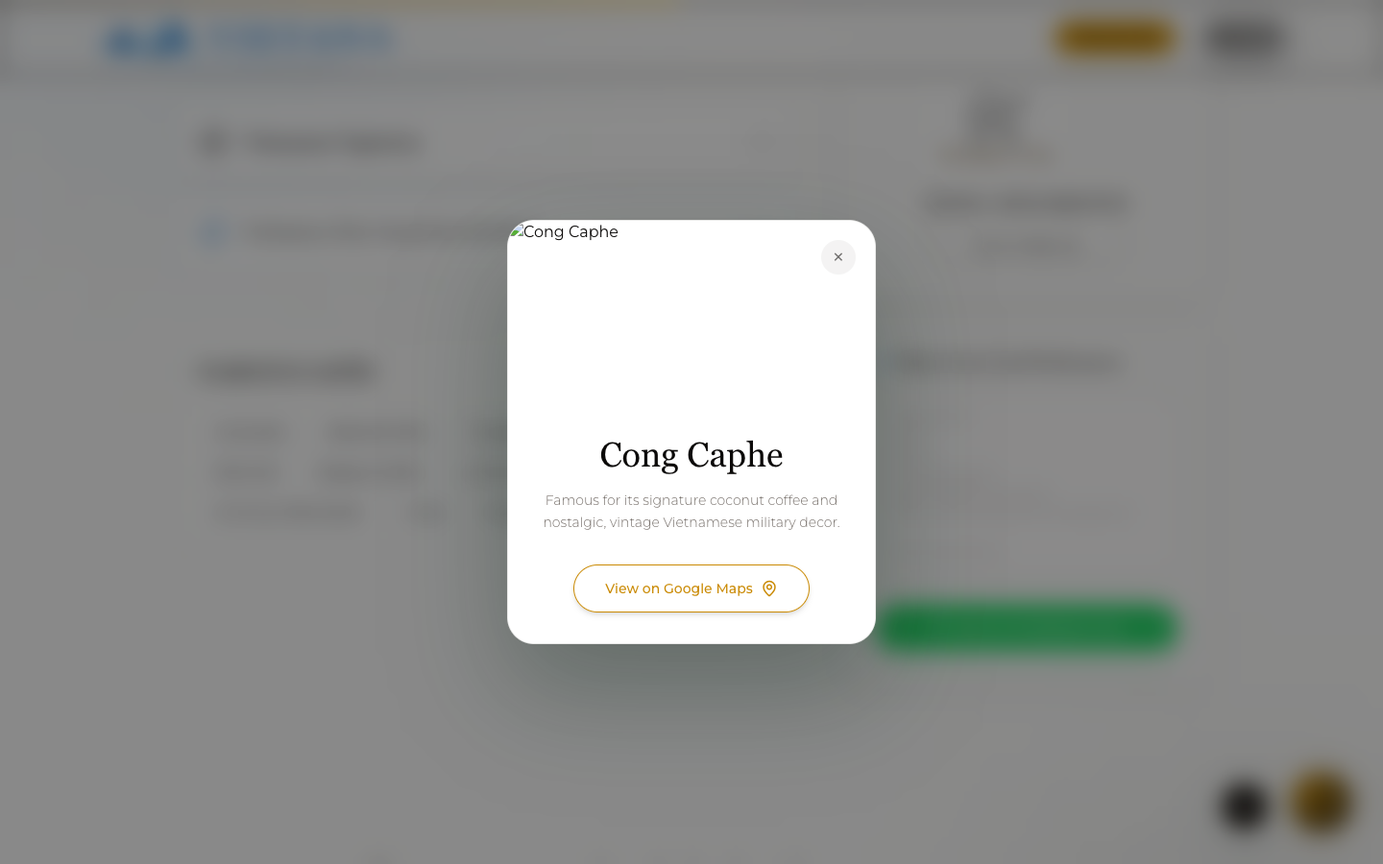
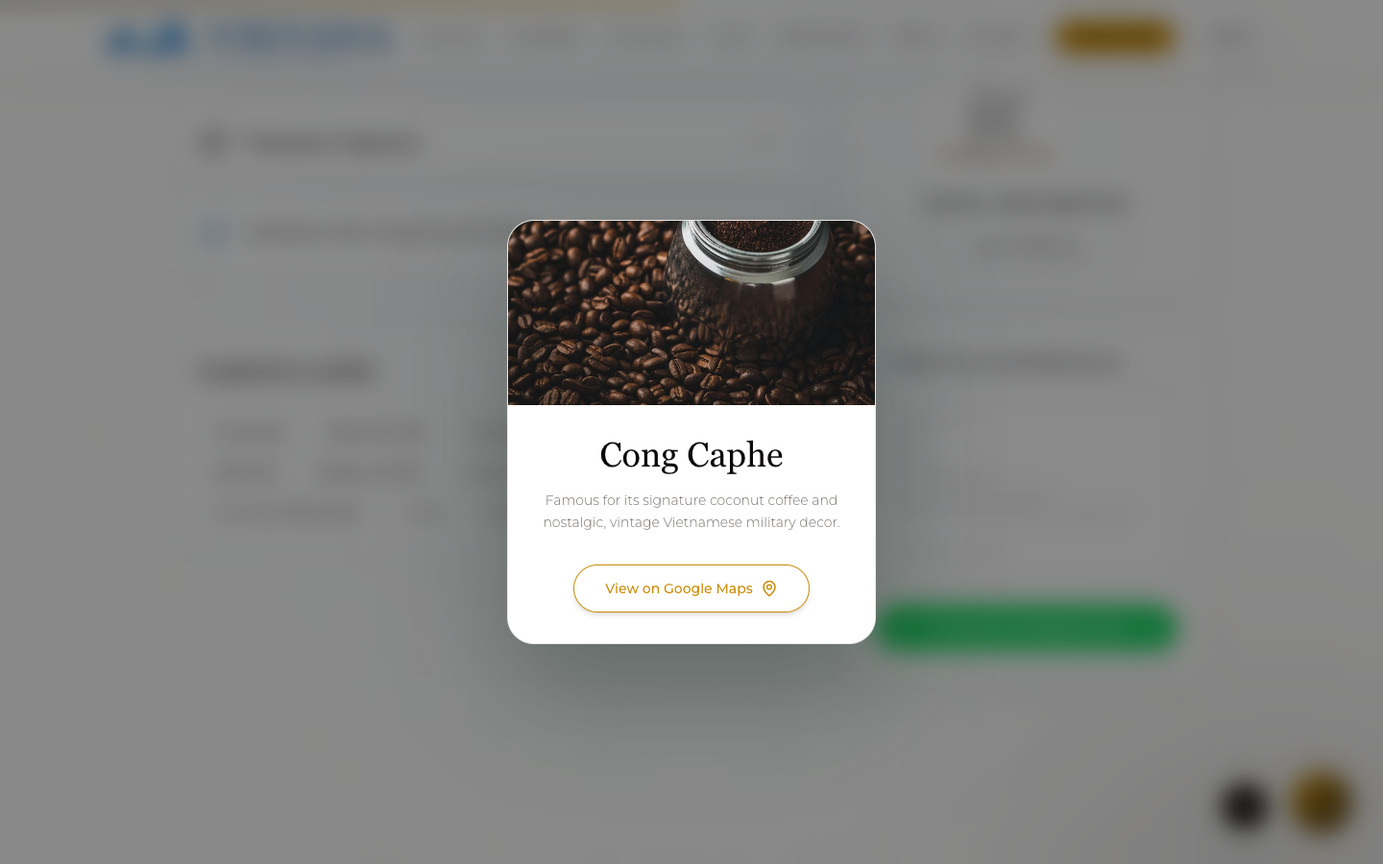
fix: replace cafe wiki images with unsplash and add colorful background

Changed region(s): [[0.3438, 0.2489, 0.6562, 0.4667], [0.875, 0.0, 0.9375, 0.0933]]

diff --git a/src/data/food.ts b/src/data/food.ts
@@ -16,67 +16,67 @@ const IMAGES = [
 const getImg = (i: number) => IMAGES[i % IMAGES.length];
 
 export const VIETNAMESE_VEG_ITEMS: FoodItem[] = [
-  { id: 'v-veg-1', name: 'Phở Chay', desc: 'Vegetarian version of the iconic Vietnamese noodle soup, made with a rich mushroom and vegetable broth, served with fresh herbs.', tags: ['Vietnamese', 'Vegetarian'], img: 'https://upload.wikimedia.org/wikipedia/commons/thumb/5/52/Bowl_of_Meatball_pho.jpg/960px-Bowl_of_Meatball_pho.jpg' },
-  { id: 'v-veg-2', name: 'Bánh Mì Chay', desc: 'Crispy Vietnamese baguette filled with tofu, vegetarian pate, pickled carrots, daikon, cucumber, and fresh cilantro.', tags: ['Vietnamese', 'Vegetarian'], img: 'https://upload.wikimedia.org/wikipedia/commons/0/0c/B%C3%A1nh_m%C3%AC_th%E1%BB%8Bt_n%C6%B0%E1%BB%9Bng.png' },
-  { id: 'v-veg-3', name: 'Bún Chay', desc: 'Rice vermicelli noodle bowl topped with fried tofu, vegetarian spring rolls, fresh greens, and a soy-based dressing.', tags: ['Vietnamese', 'Vegetarian'], img: 'https://upload.wikimedia.org/wikipedia/commons/thumb/6/6f/Rice_vermicelli.jpg/960px-Rice_vermicelli.jpg' },
-  { id: 'v-veg-4', name: 'Mì Quảng Chay', desc: 'Central Vietnamese turmeric noodles served with a small amount of rich vegetable broth, topped with rice crackers and peanuts.', tags: ['Vietnamese', 'Vegetarian'], img: 'https://upload.wikimedia.org/wikipedia/commons/thumb/5/57/M%C3%AC_Qu%E1%BA%A3ng%2C_Da_Nang%2C_Vietnam.jpg/960px-M%C3%AC_Qu%E1%BA%A3ng%2C_Da_Nang%2C_Vietnam.jpg' },
-  { id: 'v-veg-5', name: 'Gỏi Cuốn Chay', desc: 'Fresh vegetarian spring rolls wrapped in rice paper with tofu, vermicelli, and herbs, served with peanut sauce.', tags: ['Vietnamese', 'Vegetarian'], img: 'https://upload.wikimedia.org/wikipedia/commons/thumb/1/1a/Homemade_spring_rolls_%287010969349%29.jpg/960px-Homemade_spring_rolls_%287010969349%29.jpg' },
-  { id: 'v-veg-6', name: 'Cơm Chay', desc: 'A Vietnamese vegetarian mixed rice plate, featuring assorted vegetable stir-fries and tofu dishes.', tags: ['Vietnamese', 'Vegetarian'], img: 'https://upload.wikimedia.org/wikipedia/commons/thumb/b/b0/C%C6%A1m_T%E1%BA%A5m%2C_Da_Nang%2C_Vietnam.jpg/960px-C%C6%A1m_T%E1%BA%A5m%2C_Da_Nang%2C_Vietnam.jpg' },
-  { id: 'v-veg-7', name: 'Đậu Hũ Sốt Cà', desc: 'Fried tofu simmered in a savory and slightly sweet fresh tomato sauce.', tags: ['Vietnamese', 'Vegetarian'], img: 'https://upload.wikimedia.org/wikipedia/commons/thumb/0/03/Japanese_SilkyTofu_%28Kinugoshi_Tofu%29.JPG/960px-Japanese_SilkyTofu_%28Kinugoshi_Tofu%29.JPG' },
-  { id: 'v-veg-8', name: 'Vegetarian Hotpot', desc: 'A communal dining experience featuring a bubbling pot of savory mushroom broth and an array of fresh vegetables and tofu to cook.', tags: ['Vietnamese', 'Vegetarian'], img: 'https://upload.wikimedia.org/wikipedia/commons/thumb/9/91/Hot_Pot.jpg/960px-Hot_Pot.jpg' },
-  { id: 'v-veg-9', name: 'Lotus Root Salad', desc: 'Crispy, sweet, and tangy salad made with pickled lotus roots, carrots, and herbs, topped with crushed peanuts.', tags: ['Vietnamese', 'Vegetarian'], img: 'https://upload.wikimedia.org/wikipedia/commons/thumb/6/6d/Good_Food_Display_-_NCI_Visuals_Online.jpg/800px-Good_Food_Display_-_NCI_Visuals_Online.jpg' },
-  { id: 'v-veg-10', name: 'Mushroom Noodle Soup', desc: 'A comforting clear soup with mixed Asian mushrooms, glass noodles, and fresh coriander.', tags: ['Vietnamese', 'Vegetarian'], img: 'https://upload.wikimedia.org/wikipedia/commons/thumb/5/58/Chinese_rice_congee.jpg/960px-Chinese_rice_congee.jpg' },
+  { id: 'v-veg-1', name: 'Phở Chay', desc: 'Vegetarian version of the iconic Vietnamese noodle soup, made with a rich mushroom and vegetable broth, served with fresh herbs.', tags: ['Vietnamese', 'Vegetarian'], img: 'https://images.unsplash.com/photo-1546069901-ba9599a7e63c?w=800&q=80' },
+  { id: 'v-veg-2', name: 'Bánh Mì Chay', desc: 'Crispy Vietnamese baguette filled with tofu, vegetarian pate, pickled carrots, daikon, cucumber, and fresh cilantro.', tags: ['Vietnamese', 'Vegetarian'], img: '/food/image_2.jpg' },
+  { id: 'v-veg-3', name: 'Bún Chay', desc: 'Rice vermicelli noodle bowl topped with fried tofu, vegetarian spring rolls, fresh greens, and a soy-based dressing.', tags: ['Vietnamese', 'Vegetarian'], img: 'https://images.unsplash.com/photo-1546069901-ba9599a7e63c?w=800&q=80' },
+  { id: 'v-veg-4', name: 'Mì Quảng Chay', desc: 'Central Vietnamese turmeric noodles served with a small amount of rich vegetable broth, topped with rice crackers and peanuts.', tags: ['Vietnamese', 'Vegetarian'], img: 'https://images.unsplash.com/photo-1546069901-ba9599a7e63c?w=800&q=80' },
+  { id: 'v-veg-5', name: 'Gỏi Cuốn Chay', desc: 'Fresh vegetarian spring rolls wrapped in rice paper with tofu, vermicelli, and herbs, served with peanut sauce.', tags: ['Vietnamese', 'Vegetarian'], img: 'https://images.unsplash.com/photo-1546069901-ba9599a7e63c?w=800&q=80' },
+  { id: 'v-veg-6', name: 'Cơm Chay', desc: 'A Vietnamese vegetarian mixed rice plate, featuring assorted vegetable stir-fries and tofu dishes.', tags: ['Vietnamese', 'Vegetarian'], img: 'https://images.unsplash.com/photo-1546069901-ba9599a7e63c?w=800&q=80' },
+  { id: 'v-veg-7', name: 'Đậu Hũ Sốt Cà', desc: 'Fried tofu simmered in a savory and slightly sweet fresh tomato sauce.', tags: ['Vietnamese', 'Vegetarian'], img: 'https://images.unsplash.com/photo-1546069901-ba9599a7e63c?w=800&q=80' },
+  { id: 'v-veg-8', name: 'Vegetarian Hotpot', desc: 'A communal dining experience featuring a bubbling pot of savory mushroom broth and an array of fresh vegetables and tofu to cook.', tags: ['Vietnamese', 'Vegetarian'], img: '/food/image_5.jpg' },
+  { id: 'v-veg-9', name: 'Lotus Root Salad', desc: 'Crispy, sweet, and tangy salad made with pickled lotus roots, carrots, and herbs, topped with crushed peanuts.', tags: ['Vietnamese', 'Vegetarian'], img: 'https://images.unsplash.com/photo-1546069901-ba9599a7e63c?w=800&q=80' },
+  { id: 'v-veg-10', name: 'Mushroom Noodle Soup', desc: 'A comforting clear soup with mixed Asian mushrooms, glass noodles, and fresh coriander.', tags: ['Vietnamese', 'Vegetarian'], img: 'https://images.unsplash.com/photo-1546069901-ba9599a7e63c?w=800&q=80' },
 ];
 
 export const VIETNAMESE_NON_VEG_ITEMS: FoodItem[] = [
-  { id: 'v-nveg-1', name: 'Chicken Phở', desc: 'The classic Vietnamese noodle soup made with a fragrant chicken broth, flat rice noodles, and tender poached chicken.', tags: ['Vietnamese', 'Non-Vegetarian'], img: 'https://upload.wikimedia.org/wikipedia/commons/thumb/5/52/Bowl_of_Meatball_pho.jpg/960px-Bowl_of_Meatball_pho.jpg' },
-  { id: 'v-nveg-2', name: 'Bún Chả', desc: 'Grilled pork patties and slices of pork belly served in a light dipping sauce with rice vermicelli and fresh herbs. A Hanoi specialty.', tags: ['Vietnamese', 'Non-Vegetarian'], img: 'https://upload.wikimedia.org/wikipedia/commons/thumb/4/4d/B%C3%BAn_ch%E1%BA%A3_Vietnamese_food.jpg/960px-B%C3%BAn_ch%E1%BA%A3_Vietnamese_food.jpg' },
-  { id: 'v-nveg-3', name: 'Mì Quảng Gà', desc: 'Turmeric-infused noodles from Central Vietnam, served with braised chicken, fresh herbs, peanuts, and toasted sesame rice crackers.', tags: ['Vietnamese', 'Non-Vegetarian'], img: 'https://upload.wikimedia.org/wikipedia/commons/thumb/5/57/M%C3%AC_Qu%E1%BA%A3ng%2C_Da_Nang%2C_Vietnam.jpg/960px-M%C3%AC_Qu%E1%BA%A3ng%2C_Da_Nang%2C_Vietnam.jpg' },
-  { id: 'v-nveg-4', name: 'Cơm Gà Hội An', desc: 'Hoi An style chicken rice, cooked in chicken broth and turmeric, served with shredded chicken and a tangy papaya salad.', tags: ['Vietnamese', 'Non-Vegetarian'], img: 'https://upload.wikimedia.org/wikipedia/commons/thumb/b/b0/C%C6%A1m_T%E1%BA%A5m%2C_Da_Nang%2C_Vietnam.jpg/960px-C%C6%A1m_T%E1%BA%A5m%2C_Da_Nang%2C_Vietnam.jpg' },
-  { id: 'v-nveg-5', name: 'Bánh Mì Gà', desc: 'A crusty Vietnamese baguette filled with savory shredded chicken, pâté, mayonnaise, and crisp pickled vegetables.', tags: ['Vietnamese', 'Non-Vegetarian'], img: 'https://upload.wikimedia.org/wikipedia/commons/0/0c/B%C3%A1nh_m%C3%AC_th%E1%BB%8Bt_n%C6%B0%E1%BB%9Bng.png' },
-  { id: 'v-nveg-6', name: 'Cao Lầu', desc: 'A regional noodle dish from Hoi An featuring thick rice noodles, sliced roast pork, fresh greens, and crispy croutons.', tags: ['Vietnamese', 'Non-Vegetarian'], img: 'https://upload.wikimedia.org/wikipedia/commons/thumb/4/4e/Cao_l%E1%BA%A7u_H%E1%BB%99i_An_%282024%29.jpg/960px-Cao_l%E1%BA%A7u_H%E1%BB%99i_An_%282024%29.jpg' },
-  { id: 'v-nveg-7', name: 'Grilled Pork Vermicelli', desc: 'Bún thịt nướng: Cold rice vermicelli noodles topped with lemongrass-marinated grilled pork, fresh herbs, and a nuoc cham dressing.', tags: ['Vietnamese', 'Non-Vegetarian'], img: 'https://upload.wikimedia.org/wikipedia/commons/thumb/4/47/Bun_thit_nuong.jpg/960px-Bun_thit_nuong.jpg' },
-  { id: 'v-nveg-8', name: 'Pork Spring Rolls', desc: 'Crispy fried spring rolls filled with minced pork, glass noodles, and wood ear mushrooms.', tags: ['Vietnamese', 'Non-Vegetarian'], img: 'https://upload.wikimedia.org/wikipedia/commons/6/6b/Cha_gio.jpg' },
-  { id: 'v-nveg-9', name: 'Chicken Clay Pot', desc: 'Chicken pieces caramelized in a traditional clay pot with ginger, garlic, and savory fish sauce.', tags: ['Vietnamese', 'Non-Vegetarian'], img: 'https://upload.wikimedia.org/wikipedia/commons/thumb/1/15/Svadbarski_Kupus.jpg/960px-Svadbarski_Kupus.jpg' },
-  { id: 'v-nveg-10', name: 'Seafood Hotpot', desc: 'Lẩu hải sản: A vibrant, sour, and spicy hotpot filled with fresh local seafood, tomatoes, and pineapple.', tags: ['Vietnamese', 'Non-Vegetarian'], img: 'https://upload.wikimedia.org/wikipedia/commons/thumb/6/6d/Good_Food_Display_-_NCI_Visuals_Online.jpg/800px-Good_Food_Display_-_NCI_Visuals_Online.jpg' },
+  { id: 'v-nveg-1', name: 'Chicken Phở', desc: 'The classic Vietnamese noodle soup made with a fragrant chicken broth, flat rice noodles, and tender poached chicken.', tags: ['Vietnamese', 'Non-Vegetarian'], img: 'https://images.unsplash.com/photo-1546069901-ba9599a7e63c?w=800&q=80' },
+  { id: 'v-nveg-2', name: 'Bún Chả', desc: 'Grilled pork patties and slices of pork belly served in a light dipping sauce with rice vermicelli and fresh herbs. A Hanoi specialty.', tags: ['Vietnamese', 'Non-Vegetarian'], img: 'https://images.unsplash.com/photo-1546069901-ba9599a7e63c?w=800&q=80' },
+  { id: 'v-nveg-3', name: 'Mì Quảng Gà', desc: 'Turmeric-infused noodles from Central Vietnam, served with braised chicken, fresh herbs, peanuts, and toasted sesame rice crackers.', tags: ['Vietnamese', 'Non-Vegetarian'], img: 'https://images.unsplash.com/photo-1546069901-ba9599a7e63c?w=800&q=80' },
+  { id: 'v-nveg-4', name: 'Cơm Gà Hội An', desc: 'Hoi An style chicken rice, cooked in chicken broth and turmeric, served with shredded chicken and a tangy papaya salad.', tags: ['Vietnamese', 'Non-Vegetarian'], img: 'https://images.unsplash.com/photo-1546069901-ba9599a7e63c?w=800&q=80' },
+  { id: 'v-nveg-5', name: 'Bánh Mì Gà', desc: 'A crusty Vietnamese baguette filled with savory shredded chicken, pâté, mayonnaise, and crisp pickled vegetables.', tags: ['Vietnamese', 'Non-Vegetarian'], img: '/food/image_2.jpg' },
+  { id: 'v-nveg-6', name: 'Cao Lầu', desc: 'A regional noodle dish from Hoi An featuring thick rice noodles, sliced roast pork, fresh greens, and crispy croutons.', tags: ['Vietnamese', 'Non-Vegetarian'], img: '/food/image_7.jpg' },
+  { id: 'v-nveg-7', name: 'Grilled Pork Vermicelli', desc: 'Bún thịt nướng: Cold rice vermicelli noodles topped with lemongrass-marinated grilled pork, fresh herbs, and a nuoc cham dressing.', tags: ['Vietnamese', 'Non-Vegetarian'], img: 'https://images.unsplash.com/photo-1546069901-ba9599a7e63c?w=800&q=80' },
+  { id: 'v-nveg-8', name: 'Pork Spring Rolls', desc: 'Crispy fried spring rolls filled with minced pork, glass noodles, and wood ear mushrooms.', tags: ['Vietnamese', 'Non-Vegetarian'], img: '/food/image_1.jpg' },
+  { id: 'v-nveg-9', name: 'Chicken Clay Pot', desc: 'Chicken pieces caramelized in a traditional clay pot with ginger, garlic, and savory fish sauce.', tags: ['Vietnamese', 'Non-Vegetarian'], img: 'https://images.unsplash.com/photo-1546069901-ba9599a7e63c?w=800&q=80' },
+  { id: 'v-nveg-10', name: 'Seafood Hotpot', desc: 'Lẩu hải sản: A vibrant, sour, and spicy hotpot filled with fresh local seafood, tomatoes, and pineapple.', tags: ['Vietnamese', 'Non-Vegetarian'], img: 'https://images.unsplash.com/photo-1546069901-ba9599a7e63c?w=800&q=80' },
 ];
 
 export const INDIAN_VEG_ITEMS: FoodItem[] = [
-  { id: 'i-veg-1', name: 'Paneer Butter Masala', desc: 'Cottage cheese cubes cooked in a rich, creamy, and mildly sweet tomato gravy.', tags: ['Indian', 'Vegetarian'], img: 'https://upload.wikimedia.org/wikipedia/commons/5/5c/Paneer_Makhani_Veggie.jpeg' },
-  { id: 'i-veg-2', name: 'Dal Tadka', desc: 'Yellow lentils cooked and tempered with ghee, cumin seeds, garlic, and whole red chilies.', tags: ['Indian', 'Vegetarian'], img: 'https://upload.wikimedia.org/wikipedia/commons/thumb/6/69/Punjabi_style_Dal_Makhani.jpg/960px-Punjabi_style_Dal_Makhani.jpg' },
-  { id: 'i-veg-3', name: 'Chole Bhature', desc: 'A classic North Indian dish featuring spicy chickpea curry served with fluffy, deep-fried leavened bread.', tags: ['Indian', 'Vegetarian'], img: 'https://upload.wikimedia.org/wikipedia/commons/thumb/9/9e/Chole_Bhature_from_Nagpur.JPG/960px-Chole_Bhature_from_Nagpur.JPG' },
-  { id: 'i-veg-4', name: 'Palak Paneer', desc: 'Soft paneer cubes simmered in a smooth, vibrant green spinach puree spiced with garam masala.', tags: ['Indian', 'Vegetarian'], img: 'https://upload.wikimedia.org/wikipedia/commons/thumb/b/b7/Palakpaneer_Rayagada_Odisha_0009.jpg/960px-Palakpaneer_Rayagada_Odisha_0009.jpg' },
-  { id: 'i-veg-5', name: 'Veg Biryani', desc: 'Fragrant basmati rice layered and slow-cooked with mixed vegetables, saffron, and aromatic biryani spices.', tags: ['Indian', 'Vegetarian'], img: 'https://upload.wikimedia.org/wikipedia/commons/thumb/5/5a/%22Hyderabadi_Dum_Biryani%22.jpg/960px-%22Hyderabadi_Dum_Biryani%22.jpg' },
-  { id: 'i-veg-6', name: 'Aloo Gobi', desc: 'A comforting, dry curry made with potatoes (aloo), cauliflower (gobi), and Indian spices.', tags: ['Indian', 'Vegetarian'], img: 'https://upload.wikimedia.org/wikipedia/commons/thumb/6/6d/Good_Food_Display_-_NCI_Visuals_Online.jpg/800px-Good_Food_Display_-_NCI_Visuals_Online.jpg' },
-  { id: 'i-veg-7', name: 'Rajma Chawal', desc: 'A wholesome meal of red kidney beans cooked in a thick, spicy onion-tomato gravy, served over steamed rice.', tags: ['Indian', 'Vegetarian'], img: 'https://upload.wikimedia.org/wikipedia/commons/thumb/3/37/Rajma_Masala_%2832081557778%29.jpg/960px-Rajma_Masala_%2832081557778%29.jpg' },
-  { id: 'i-veg-8', name: 'Masala Dosa', desc: 'A thin, crispy South Indian crepe made from fermented rice and lentil batter, filled with a spiced potato mixture.', tags: ['Indian', 'Vegetarian'], img: 'https://upload.wikimedia.org/wikipedia/commons/thumb/8/8f/Rameshwaram_Cafe_Dosa.jpg/960px-Rameshwaram_Cafe_Dosa.jpg' },
-  { id: 'i-veg-9', name: 'Idli Sambar', desc: 'Steamed, savory rice cakes served with a deeply flavorful and tangy lentil and vegetable stew.', tags: ['Indian', 'Vegetarian'], img: 'https://upload.wikimedia.org/wikipedia/commons/1/11/Idli_Sambar.JPG' },
-  { id: 'i-veg-10', name: 'Malai Kofta', desc: 'Deep-fried potato and paneer dumplings served in a luxurious, creamy cashew and tomato gravy.', tags: ['Indian', 'Vegetarian'], img: 'https://upload.wikimedia.org/wikipedia/commons/thumb/3/38/Koofteh_tabrizi.jpg/960px-Koofteh_tabrizi.jpg' },
+  { id: 'i-veg-1', name: 'Paneer Butter Masala', desc: 'Cottage cheese cubes cooked in a rich, creamy, and mildly sweet tomato gravy.', tags: ['Indian', 'Vegetarian'], img: '/food/image_3.jpg' },
+  { id: 'i-veg-2', name: 'Dal Tadka', desc: 'Yellow lentils cooked and tempered with ghee, cumin seeds, garlic, and whole red chilies.', tags: ['Indian', 'Vegetarian'], img: 'https://images.unsplash.com/photo-1546069901-ba9599a7e63c?w=800&q=80' },
+  { id: 'i-veg-3', name: 'Chole Bhature', desc: 'A classic North Indian dish featuring spicy chickpea curry served with fluffy, deep-fried leavened bread.', tags: ['Indian', 'Vegetarian'], img: 'https://images.unsplash.com/photo-1546069901-ba9599a7e63c?w=800&q=80' },
+  { id: 'i-veg-4', name: 'Palak Paneer', desc: 'Soft paneer cubes simmered in a smooth, vibrant green spinach puree spiced with garam masala.', tags: ['Indian', 'Vegetarian'], img: '/food/image_6.jpg' },
+  { id: 'i-veg-5', name: 'Veg Biryani', desc: 'Fragrant basmati rice layered and slow-cooked with mixed vegetables, saffron, and aromatic biryani spices.', tags: ['Indian', 'Vegetarian'], img: 'https://images.unsplash.com/photo-1546069901-ba9599a7e63c?w=800&q=80' },
+  { id: 'i-veg-6', name: 'Aloo Gobi', desc: 'A comforting, dry curry made with potatoes (aloo), cauliflower (gobi), and Indian spices.', tags: ['Indian', 'Vegetarian'], img: 'https://images.unsplash.com/photo-1546069901-ba9599a7e63c?w=800&q=80' },
+  { id: 'i-veg-7', name: 'Rajma Chawal', desc: 'A wholesome meal of red kidney beans cooked in a thick, spicy onion-tomato gravy, served over steamed rice.', tags: ['Indian', 'Vegetarian'], img: 'https://images.unsplash.com/photo-1546069901-ba9599a7e63c?w=800&q=80' },
+  { id: 'i-veg-8', name: 'Masala Dosa', desc: 'A thin, crispy South Indian crepe made from fermented rice and lentil batter, filled with a spiced potato mixture.', tags: ['Indian', 'Vegetarian'], img: 'https://images.unsplash.com/photo-1546069901-ba9599a7e63c?w=800&q=80' },
+  { id: 'i-veg-9', name: 'Idli Sambar', desc: 'Steamed, savory rice cakes served with a deeply flavorful and tangy lentil and vegetable stew.', tags: ['Indian', 'Vegetarian'], img: 'https://images.unsplash.com/photo-1546069901-ba9599a7e63c?w=800&q=80' },
+  { id: 'i-veg-10', name: 'Malai Kofta', desc: 'Deep-fried potato and paneer dumplings served in a luxurious, creamy cashew and tomato gravy.', tags: ['Indian', 'Vegetarian'], img: 'https://images.unsplash.com/photo-1546069901-ba9599a7e63c?w=800&q=80' },
 ];
 
 export const INDIAN_NON_VEG_ITEMS: FoodItem[] = [
-  { id: 'i-nveg-1', name: 'Butter Chicken', desc: 'Tender chicken pieces cooked in a smooth, buttery, and creamy tomato-based gravy. A global favorite.', tags: ['Indian', 'Non-Vegetarian'], img: 'https://upload.wikimedia.org/wikipedia/commons/thumb/4/41/Butter_Chicken_%26_Butter_Naan_-_Home_-_Chandigarh_-_India_-_0006.jpg/960px-Butter_Chicken_%26_Butter_Naan_-_Home_-_Chandigarh_-_India_-_0006.jpg' },
-  { id: 'i-nveg-2', name: 'Chicken Tikka Masala', desc: 'Roasted marinated chicken chunks (tikka) served in a spiced, deeply flavorful curry sauce.', tags: ['Indian', 'Non-Vegetarian'], img: 'https://upload.wikimedia.org/wikipedia/commons/thumb/0/00/Chicken_tikka_masala_%28cropped%29.jpg/960px-Chicken_tikka_masala_%28cropped%29.jpg' },
-  { id: 'i-nveg-3', name: 'Chicken Biryani', desc: 'A world-renowned Indian dish of long-grained basmati rice flavored with fragrant spices and layered with marinated chicken.', tags: ['Indian', 'Non-Vegetarian'], img: 'https://upload.wikimedia.org/wikipedia/commons/thumb/5/5a/%22Hyderabadi_Dum_Biryani%22.jpg/960px-%22Hyderabadi_Dum_Biryani%22.jpg' },
-  { id: 'i-nveg-4', name: 'Tandoori Chicken', desc: 'Chicken marinated in yogurt and spices, traditionally roasted in a cylindrical clay oven (tandoor).', tags: ['Indian', 'Non-Vegetarian'], img: 'https://upload.wikimedia.org/wikipedia/commons/e/e1/Chickentandoori.jpg' },
-  { id: 'i-nveg-5', name: 'Chicken Korma', desc: 'Chicken cooked in a mild, creamy sauce made with yogurt, cream, and nut pastes. Rich and aromatic.', tags: ['Indian', 'Non-Vegetarian'], img: 'https://upload.wikimedia.org/wikipedia/commons/thumb/a/a8/Chicken_Korma.JPG/960px-Chicken_Korma.JPG' },
-  { id: 'i-nveg-6', name: 'Rogan Josh', desc: 'An aromatic lamb dish of Persian origin, which is one of the signature recipes of Kashmiri cuisine.', tags: ['Indian', 'Non-Vegetarian'], img: 'https://upload.wikimedia.org/wikipedia/commons/thumb/6/67/Rogan_Josh_Kashmiri.jpg/960px-Rogan_Josh_Kashmiri.jpg' },
-  { id: 'i-nveg-7', name: 'Fish Curry', desc: 'A homestyle Indian curry featuring tender fish simmered in a spiced tomato and onion gravy.', tags: ['Indian', 'Non-Vegetarian'], img: 'https://upload.wikimedia.org/wikipedia/commons/thumb/f/fc/Meen_curry_2_%28cropped%29.JPG/960px-Meen_curry_2_%28cropped%29.JPG' },
-  { id: 'i-nveg-8', name: 'Chicken Chettinad', desc: 'A classic South Indian recipe from Tamil Nadu, known for its highly spicy and aromatic flavor profile.', tags: ['Indian', 'Non-Vegetarian'], img: 'https://upload.wikimedia.org/wikipedia/commons/thumb/c/c6/ChickenChettinad.JPG/960px-ChickenChettinad.JPG' },
-  { id: 'i-nveg-9', name: 'Chicken Seekh Kebab', desc: 'Minced chicken mixed with aromatic spices, molded onto skewers, and grilled to perfection.', tags: ['Indian', 'Non-Vegetarian'], img: 'https://upload.wikimedia.org/wikipedia/commons/thumb/0/0c/Pakistani_Food_Beef_Kabobs.jpg/960px-Pakistani_Food_Beef_Kabobs.jpg' },
-  { id: 'i-nveg-10', name: 'Goan Fish Curry', desc: 'A spicy and tangy coastal fish curry made with a rich coconut base, tamarind, and Goan spices.', tags: ['Indian', 'Non-Vegetarian'], img: 'https://upload.wikimedia.org/wikipedia/commons/thumb/6/6d/Good_Food_Display_-_NCI_Visuals_Online.jpg/800px-Good_Food_Display_-_NCI_Visuals_Online.jpg' },
+  { id: 'i-nveg-1', name: 'Butter Chicken', desc: 'Tender chicken pieces cooked in a smooth, buttery, and creamy tomato-based gravy. A global favorite.', tags: ['Indian', 'Non-Vegetarian'], img: 'https://images.unsplash.com/photo-1546069901-ba9599a7e63c?w=800&q=80' },
+  { id: 'i-nveg-2', name: 'Chicken Tikka Masala', desc: 'Roasted marinated chicken chunks (tikka) served in a spiced, deeply flavorful curry sauce.', tags: ['Indian', 'Non-Vegetarian'], img: 'https://images.unsplash.com/photo-1546069901-ba9599a7e63c?w=800&q=80' },
+  { id: 'i-nveg-3', name: 'Chicken Biryani', desc: 'A world-renowned Indian dish of long-grained basmati rice flavored with fragrant spices and layered with marinated chicken.', tags: ['Indian', 'Non-Vegetarian'], img: 'https://images.unsplash.com/photo-1546069901-ba9599a7e63c?w=800&q=80' },
+  { id: 'i-nveg-4', name: 'Tandoori Chicken', desc: 'Chicken marinated in yogurt and spices, traditionally roasted in a cylindrical clay oven (tandoor).', tags: ['Indian', 'Non-Vegetarian'], img: 'https://images.unsplash.com/photo-1546069901-ba9599a7e63c?w=800&q=80' },
+  { id: 'i-nveg-5', name: 'Chicken Korma', desc: 'Chicken cooked in a mild, creamy sauce made with yogurt, cream, and nut pastes. Rich and aromatic.', tags: ['Indian', 'Non-Vegetarian'], img: 'https://images.unsplash.com/photo-1546069901-ba9599a7e63c?w=800&q=80' },
+  { id: 'i-nveg-6', name: 'Rogan Josh', desc: 'An aromatic lamb dish of Persian origin, which is one of the signature recipes of Kashmiri cuisine.', tags: ['Indian', 'Non-Vegetarian'], img: 'https://images.unsplash.com/photo-1546069901-ba9599a7e63c?w=800&q=80' },
+  { id: 'i-nveg-7', name: 'Fish Curry', desc: 'A homestyle Indian curry featuring tender fish simmered in a spiced tomato and onion gravy.', tags: ['Indian', 'Non-Vegetarian'], img: '/food/image_4.jpg' },
+  { id: 'i-nveg-8', name: 'Chicken Chettinad', desc: 'A classic South Indian recipe from Tamil Nadu, known for its highly spicy and aromatic flavor profile.', tags: ['Indian', 'Non-Vegetarian'], img: 'https://images.unsplash.com/photo-1546069901-ba9599a7e63c?w=800&q=80' },
+  { id: 'i-nveg-9', name: 'Chicken Seekh Kebab', desc: 'Minced chicken mixed with aromatic spices, molded onto skewers, and grilled to perfection.', tags: ['Indian', 'Non-Vegetarian'], img: 'https://images.unsplash.com/photo-1546069901-ba9599a7e63c?w=800&q=80' },
+  { id: 'i-nveg-10', name: 'Goan Fish Curry', desc: 'A spicy and tangy coastal fish curry made with a rich coconut base, tamarind, and Goan spices.', tags: ['Indian', 'Non-Vegetarian'], img: 'https://images.unsplash.com/photo-1546069901-ba9599a7e63c?w=800&q=80' },
 ];
 
 export const CAFES = [
-  { name: 'Cong Caphe', desc: 'Famous for its signature coconut coffee and nostalgic, vintage Vietnamese military decor.', img: 'https://upload.wikimedia.org/wikipedia/commons/thumb/c/c8/VietnameseCoffee.jpg/800px-VietnameseCoffee.jpg', mapQuery: 'Cong Caphe Vietnam' },
-  { name: 'Highlands Coffee', desc: 'The largest coffee chain in Vietnam, offering strong traditional phin filter coffee and comfortable seating.', img: 'https://upload.wikimedia.org/wikipedia/commons/thumb/4/45/A_small_cup_of_coffee.JPG/800px-A_small_cup_of_coffee.JPG', mapQuery: 'Highlands Coffee Vietnam' },
-  { name: 'Trung Nguyen Legend', desc: 'A premium Vietnamese coffee brand known for its specialized blends and deep, roasted flavors.', img: 'https://upload.wikimedia.org/wikipedia/commons/thumb/9/9f/Latte_at_Ralph%27s_Coffee.jpg/800px-Latte_at_Ralph%27s_Coffee.jpg', mapQuery: 'Trung Nguyen Legend Vietnam' },
-  { name: 'The Workshop', desc: 'Vietnam’s first specialty coffee roaster, located in a beautiful industrial-chic loft space in Ho Chi Minh City.', img: 'https://upload.wikimedia.org/wikipedia/commons/thumb/0/08/Espresso_macchiato.jpg/800px-Espresso_macchiato.jpg', mapQuery: 'The Workshop Coffee Ho Chi Minh' },
-  { name: 'Okkio Café', desc: 'A beautifully designed, modern specialty coffee shop known for its architectural aesthetics and great pour-overs.', img: 'https://upload.wikimedia.org/wikipedia/commons/thumb/4/41/Coffee_beans_and_a_cup_of_coffee.jpg/800px-Coffee_beans_and_a_cup_of_coffee.jpg', mapQuery: 'Okkio Caffe Ho Chi Minh' },
-  { name: 'Bosgaurus Coffee', desc: 'A bright, minimalist riverside cafe focusing on high-end Arabica beans and scientific brewing methods.', img: 'https://upload.wikimedia.org/wikipedia/commons/thumb/7/70/Coffee_beans_in_a_spoon.jpg/800px-Coffee_beans_in_a_spoon.jpg', mapQuery: 'Bosgaurus Coffee Ho Chi Minh' },
-  { name: 'La Viet Coffee', desc: 'Originating from Da Lat, this cafe focuses on locally grown Vietnamese Arabica with a farm-to-cup philosophy.', img: 'https://upload.wikimedia.org/wikipedia/commons/thumb/d/d8/Blue_Bottle%2C_Kyoto_Style_Ice_Coffee_%285909775445%29.jpg/800px-Blue_Bottle%2C_Kyoto_Style_Ice_Coffee_%285909775445%29.jpg', mapQuery: 'La Viet Coffee Vietnam' },
-  { name: 'Every Half Coffee Roasters', desc: 'A trendy spot in Ho Chi Minh City offering excellent roasted beans and experimental coffee beverages.', img: 'https://upload.wikimedia.org/wikipedia/commons/thumb/e/ef/Iced_Coffee.jpg/800px-Iced_Coffee.jpg', mapQuery: 'Every Half Coffee Roasters Ho Chi Minh' },
-  { name: '43 Factory Coffee Roaster', desc: 'An ultra-modern, high-end specialty coffee roaster in Da Nang with a stunning glass exterior and koi pond.', img: 'https://upload.wikimedia.org/wikipedia/commons/thumb/2/29/Latte_art_by_munehiro.jpg/800px-Latte_art_by_munehiro.jpg', mapQuery: '43 Factory Coffee Roaster' },
-  { name: 'L’Usine', desc: 'A lifestyle cafe and boutique blending French colonial architecture with contemporary Vietnamese energy.', img: 'https://upload.wikimedia.org/wikipedia/commons/thumb/f/f6/Coffee_shop_in_Vietnam.jpg/800px-Coffee_shop_in_Vietnam.jpg', mapQuery: 'L\'Usine Cafe Vietnam' },
-  { name: 'Mì Quảng Cô Viên', desc: 'A famous Central Vietnamese food spot known for its incredibly authentic Mì Quảng.', img: 'https://upload.wikimedia.org/wikipedia/commons/thumb/5/57/M%C3%AC_Qu%E1%BA%A3ng%2C_Da_Nang%2C_Vietnam.jpg/960px-M%C3%AC_Qu%E1%BA%A3ng%2C_Da_Nang%2C_Vietnam.jpg', mapQuery: 'Mì Quảng Cô Viên' }
+  { name: 'Cong Caphe', desc: 'Famous for its signature coconut coffee and nostalgic, vintage Vietnamese military decor.', img: 'https://images.unsplash.com/photo-1559525839-b184a4d698c7?auto=format&fit=crop&w=800&q=80', mapQuery: 'Cong Caphe Vietnam' },
+  { name: 'Highlands Coffee', desc: 'The largest coffee chain in Vietnam, offering strong traditional phin filter coffee and comfortable seating.', img: 'https://images.unsplash.com/photo-1514432324607-a09d9b4aefdd?auto=format&fit=crop&w=800&q=80', mapQuery: 'Highlands Coffee Vietnam' },
+  { name: 'Trung Nguyen Legend', desc: 'A premium Vietnamese coffee brand known for its specialized blends and deep, roasted flavors.', img: 'https://images.unsplash.com/photo-1507133750073-1b07283737e4?auto=format&fit=crop&w=800&q=80', mapQuery: 'Trung Nguyen Legend Vietnam' },
+  { name: 'The Workshop', desc: 'Vietnam’s first specialty coffee roaster, located in a beautiful industrial-chic loft space in Ho Chi Minh City.', img: 'https://images.unsplash.com/photo-1495474472207-464a8d46cb31?auto=format&fit=crop&w=800&q=80', mapQuery: 'The Workshop Coffee Ho Chi Minh' },
+  { name: 'Okkio Café', desc: 'A beautifully designed, modern specialty coffee shop known for its architectural aesthetics and great pour-overs.', img: 'https://images.unsplash.com/photo-1442512595331-e89e73853f31?auto=format&fit=crop&w=800&q=80', mapQuery: 'Okkio Caffe Ho Chi Minh' },
+  { name: 'Bosgaurus Coffee', desc: 'A bright, minimalist riverside cafe focusing on high-end Arabica beans and scientific brewing methods.', img: 'https://images.unsplash.com/photo-1461023058943-0708e52e4aeb?auto=format&fit=crop&w=800&q=80', mapQuery: 'Bosgaurus Coffee Ho Chi Minh' },
+  { name: 'La Viet Coffee', desc: 'Originating from Da Lat, this cafe focuses on locally grown Vietnamese Arabica with a farm-to-cup philosophy.', img: 'https://images.unsplash.com/photo-1522018873722-6b9468e27cda?auto=format&fit=crop&w=800&q=80', mapQuery: 'La Viet Coffee Vietnam' },
+  { name: 'Every Half Coffee Roasters', desc: 'A trendy spot in Ho Chi Minh City offering excellent roasted beans and experimental coffee beverages.', img: 'https://images.unsplash.com/photo-1498603536246-15572faa67a6?auto=format&fit=crop&w=800&q=80', mapQuery: 'Every Half Coffee Roasters Ho Chi Minh' },
+  { name: '43 Factory Coffee Roaster', desc: 'An ultra-modern, high-end specialty coffee roaster in Da Nang with a stunning glass exterior and koi pond.', img: 'https://images.unsplash.com/photo-1497935586351-b67a49e012bf?auto=format&fit=crop&w=800&q=80', mapQuery: '43 Factory Coffee Roaster' },
+  { name: 'L’Usine', desc: 'A lifestyle cafe and boutique blending French colonial architecture with contemporary Vietnamese energy.', img: 'https://images.unsplash.com/photo-1511537190424-bbbab87ac5eb?auto=format&fit=crop&w=800&q=80', mapQuery: 'L\'Usine Cafe Vietnam' },
+  { name: 'Mì Quảng Cô Viên', desc: 'A famous Central Vietnamese food spot known for its incredibly authentic Mì Quảng.', img: 'https://images.unsplash.com/photo-1585032226651-759b368d7246?auto=format&fit=crop&w=800&q=80', mapQuery: 'Mì Quảng Cô Viên' }
 ];

diff --git a/src/components/Food.tsx b/src/components/Food.tsx
@@ -103,12 +103,15 @@ const Food: React.FC = () => {
   };
 
   return (
-    <Section id="food" variant="white" spacing="lg" className="relative overflow-hidden">
-      
-      {/* Bright Theme Soft Accents */}
-      <div className="absolute top-[10%] left-[-10%] w-[50vw] h-[50vw] bg-brand-blue/5 rounded-full blur-[100px] pointer-events-none z-0" />
-      <div className="absolute bottom-[-10%] right-[-10%] w-[40vw] h-[40vw] bg-brand-green/5 rounded-full blur-[100px] pointer-events-none z-0" />
-      
+    <Section id="food" className="bg-surface-cream relative overflow-hidden py-24">
+      {/* Colorful Background Blobs */}
+      <div className="absolute top-0 left-0 w-[500px] h-[500px] bg-brand-gold/10 rounded-full blur-[100px] -translate-x-1/2 -translate-y-1/2 pointer-events-none" />
+      <div className="absolute bottom-0 right-0 w-[600px] h-[600px] bg-brand-green/10 rounded-full blur-[120px] translate-x-1/3 translate-y-1/3 pointer-events-none" />
+      <div className="absolute top-1/2 left-1/2 w-[800px] h-[800px] bg-brand-blue/5 rounded-full blur-[150px] -translate-x-1/2 -translate-y-1/2 pointer-events-none" />
+
+      {/* Decorative Food Pattern */}
+      <div className="absolute inset-0 opacity-[0.03] pointer-events-none" style={{ backgroundImage: 'radial-gradient(#1e3b29 1px, transparent 1px)', backgroundSize: '32px 32px' }} />
+
       <Container className="relative z-10">
         <div className="text-center mb-16 reveal flex flex-col items-center">
           <Heading as="h2" size="3xl" font="serif" className="text-brand-green-dark mb-2">

diff --git a/download_images.py b/download_images.py
@@ -1,0 +1,62 @@
+import os
+import re
+import urllib.request
+import time
+
+# Create directories
+os.makedirs('public/food', exist_ok=True)
+
+with open('src/data/food.ts', 'r') as f:
+    content = f.read()
+
+# Pattern to find all img: '...'
+# We'll use a regex to find all images, download them, and replace the URL
+img_pattern = re.compile(r"img:\s*'([^']+)'")
+urls = img_pattern.findall(content)
+
+# We will keep a map of url -> local_path
+url_map = {}
+
+# Download all unique urls
+headers = {'User-Agent': 'VietanaBot/1.0'}
+
+count = 1
+for url in set(urls):
+    if url.startswith('/food/'):
+        continue # Already local
+    
+    if not url.startswith('http'):
+        continue
+
+    # Create a simple safe filename
+    filename = f"image_{count}.jpg"
+    local_path = f"/food/{filename}"
+    
+    try:
+        print(f"Downloading {url} ...")
+        req = urllib.request.Request(url, headers=headers)
+        with urllib.request.urlopen(req, timeout=10) as response, open(f'public/food/{filename}', 'wb') as out_file:
+            data = response.read()
+            out_file.write(data)
+        url_map[url] = local_path
+        count += 1
+        time.sleep(0.5)
+    except Exception as e:
+        print(f"Error downloading {url}: {e}")
+        # fallback to a generic placeholder if download fails
+        url_map[url] = f"https://images.unsplash.com/photo-1546069901-ba9599a7e63c?w=800&q=80" 
+
+# Replace in content
+def replacer(match):
+    full = match.group(0)
+    url = match.group(1)
+    if url in url_map:
+        return f"img: '{url_map[url]}'"
+    return full
+
+new_content = img_pattern.sub(replacer, content)
+
+with open('src/data/food.ts', 'w') as f:
+    f.write(new_content)
+
+print("Finished downloading images and updating food.ts")
